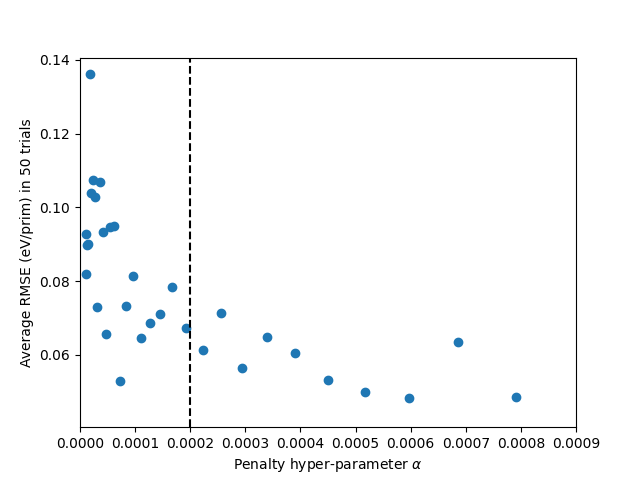
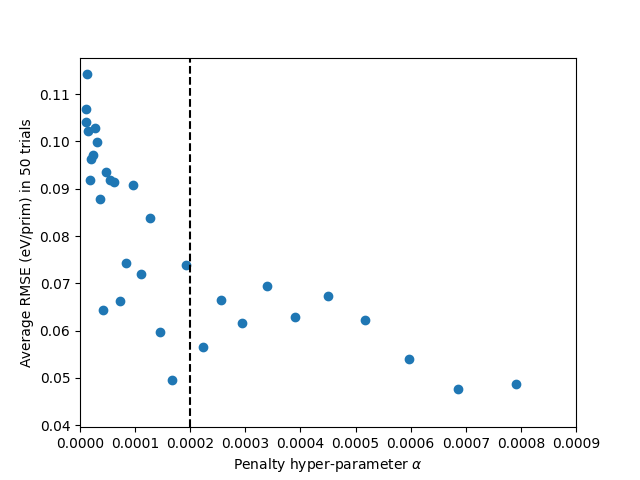
added more linear models (blr, ard)

diff --git a/CE-smol/cluster-exp-blr.py b/CE-smol/cluster-exp-blr.py
@@ -16,7 +16,7 @@ from sklearn.metrics import mean_squared_error as mse
 import numpy as np
 import copy
 import warnings
-from sklearn.linear_model import Lasso
+from sklearn.linear_model import BayesianRidge
 from sklearn.exceptions import ConvergenceWarning
 
 
@@ -70,11 +70,12 @@ print ('Our feature matrix has the following dimensions:',
 
 # 4.1 Fit a Cluster Expansion:
 
-TRIALS = 10
+TRIALS = 100
 TEST_SIZE = 0.20
 PROPERTY = 'energy'
 
 # set up Weights And Biases
+
 # (silence wandb terminal outputs)
 import os
 os.environ["WANDB_SILENT"] = "true"
@@ -86,75 +87,46 @@ wandb.init(project='cpsc440 ML for cluster expansion', entity="cpsc440-ml-cluste
     "species" : species,
     "cluster_info" : cutoffs,
     "property" : PROPERTY,
-    "model" : "Lasso"})
+    "model" : "BLR"})
 
 with warnings.catch_warnings():
     warnings.filterwarnings("ignore", category=ConvergenceWarning)
 
-    all_rmse = []
-    for alpha in np.logspace(-5, -3):
-        rmse_list = []
-        for trial in range(TRIALS):
-            X_train, X_test, y_train, y_test = train_test_split(
-                wrangler.feature_matrix, wrangler.get_property_vector(key=PROPERTY),
-                test_size=TEST_SIZE
-            )
-            # We are using linear regression with LASSO = l1 regularization 
-            model = Lasso(alpha=alpha, fit_intercept=True)
-            # remove the constant correlation since we are fitting
-            # the intercept
-            model.fit(X_train[:, 1:], y_train)
-            wvec = np.concatenate((np.array([model.intercept_]),
-                                   model.coef_),
-                                  axis=0)
-            y_predict = np.dot(X_test, wvec)
-            rmse = np.sqrt(mse(y_test, y_predict))
-            rmse_list.append(rmse)
+    rmse_list = []
+    for trial in range(TRIALS):
+        X_train, X_test, y_train, y_test = train_test_split(
+            wrangler.feature_matrix, wrangler.get_property_vector(key=PROPERTY),
+            test_size=TEST_SIZE
+        )
+        # We are using bayesian linear regression (note: not a good choice bc Gaussian assumption ~ L2 reg. instead of L1)
+        model = BayesianRidge(fit_intercept=True)
+        # remove the constant correlation since we are fitting the intercept
+        model.fit(X_train[:, 1:], y_train)
+        wvec = np.concatenate((np.array([model.intercept_]),
+                                model.coef_),
+                                axis=0)
+        y_predict = np.dot(X_test, wvec)
+        rmse = np.sqrt(mse(y_test, y_predict))
+        rmse_list.append(rmse)
+        wandb.log({"mean test rmse": rmse, "alpha": model.lambda_}) # note: model.lambda is the regularization parameter. ignore the change of names
 
-        mean = np.mean(rmse_list)
-        all_rmse.append(mean)
+    mean_rmse = np.mean(rmse_list)
 
-        # log to wandb
-        wandb.log({"mean test rmse": np.mean(rmse_list), "alpha": alpha})
-        # update best mean, alpha
-        if (mean <= np.min(all_rmse)):
-            wandb.config.update({"lowest_rmse": mean, "best alpha": alpha}, allow_val_change = True)
+    # log to wandb
+    wandb.config.update({"lowest_rmse": mean_rmse, "best alpha": model.lambda_}, allow_val_change = True)
 
 wandb.finish()
 
-
 # Load plotting tools to examine how the fitting is going
-# (note: see wandb for more plots)
-
+# '''
 import matplotlib as mpl
 import matplotlib.pyplot as plt
-
-plt.scatter(np.logspace(-5,-2), all_rmse)
-plt.xlim([0, 0.0009])
-plt.axvline(x = 0.0002, ls = '--', color = 'black')
-plt.xlabel(r'Penalty hyper-parameter $\alpha$')
-plt.ylabel('Average RMSE (eV/prim) in 50 trials')
-plt.savefig(".././CPSC440-Project/figs/avg_rmse")
-
-LAMBDA = 0.0002
-X_train, X_test, y_train, y_test = train_test_split(
-    wrangler.feature_matrix, wrangler.get_property_vector(key=PROPERTY),
-    test_size=TEST_SIZE
-)
-
-model = Lasso(alpha=LAMBDA, fit_intercept=True)
-model.fit(X_train[:, 1:], y_train)
 
 wvec = np.concatenate(
     (np.array([model.intercept_]), model.coef_),
     axis=0
 )
 
-print(model.coef_)
-print(model.intercept_)
-print(wvec)
-
-# '''
 y_predict = np.dot(X_test, wvec)
 y_train_predict = np.dot(X_train, wvec)
 print(f'Out-of-sample RMSE is: {np.sqrt(mse(y_test, y_predict))} eV/prim')
@@ -168,8 +140,6 @@ plt.stem(range(len(wvec) - first_pair), wvec[first_pair:],
          linefmt='-', markerfmt=' ')#, basefmt=' ')
 plt.xlabel('Coefficient index (i in $w_i$)')
 plt.ylabel('Magnitude |$w_i$| eV/prim')
-plt.savefig(".././CPSC440-Project/figs/selected_energies")
-# plt.show()
 
 
 # 4.2 Generate the Cluster Expansion Object: 
@@ -190,4 +160,5 @@ print(f"Structure with composition {structure.composition} has predicted energy 
 
 
 # We have built the cluster expansion: Now let’s run canonical MC on Mn0.6Ni0.4As 
+
 # '''

diff --git a/CE-smol/cluster-exp-ard.py b/CE-smol/cluster-exp-ard.py
@@ -16,7 +16,7 @@ from sklearn.metrics import mean_squared_error as mse
 import numpy as np
 import copy
 import warnings
-from sklearn.linear_model import Lasso
+from sklearn.linear_model import ARDRegression
 from sklearn.exceptions import ConvergenceWarning
 
 
@@ -70,11 +70,12 @@ print ('Our feature matrix has the following dimensions:',
 
 # 4.1 Fit a Cluster Expansion:
 
-TRIALS = 10
+TRIALS = 20
 TEST_SIZE = 0.20
 PROPERTY = 'energy'
 
 # set up Weights And Biases
+
 # (silence wandb terminal outputs)
 import os
 os.environ["WANDB_SILENT"] = "true"
@@ -86,75 +87,58 @@ wandb.init(project='cpsc440 ML for cluster expansion', entity="cpsc440-ml-cluste
     "species" : species,
     "cluster_info" : cutoffs,
     "property" : PROPERTY,
-    "model" : "Lasso"})
+    "model" : "ARD"})
 
 with warnings.catch_warnings():
     warnings.filterwarnings("ignore", category=ConvergenceWarning)
 
-    all_rmse = []
-    for alpha in np.logspace(-5, -3):
+
+# hyperparameters of gamma prior
+alpha_1s = np.logspace(-6, -4)
+alpha_2s = np.logspace(-5, -3)
+
+# print(alpha_2s)
+
+all_rmse = []
+for alpha_1 in alpha_1s:
+    for alpha_2 in alpha_2s:
+
         rmse_list = []
         for trial in range(TRIALS):
             X_train, X_test, y_train, y_test = train_test_split(
                 wrangler.feature_matrix, wrangler.get_property_vector(key=PROPERTY),
                 test_size=TEST_SIZE
             )
-            # We are using linear regression with LASSO = l1 regularization 
-            model = Lasso(alpha=alpha, fit_intercept=True)
-            # remove the constant correlation since we are fitting
-            # the intercept
+            # We are using Automatic relevance determination model, training the HYPERparameters
+            model = ARDRegression(alpha_1 = alpha_1, alpha_2 = alpha_2, fit_intercept=True)
             model.fit(X_train[:, 1:], y_train)
             wvec = np.concatenate((np.array([model.intercept_]),
-                                   model.coef_),
-                                  axis=0)
+                                    model.coef_),
+                                    axis=0)
             y_predict = np.dot(X_test, wvec)
+
             rmse = np.sqrt(mse(y_test, y_predict))
             rmse_list.append(rmse)
+           
+        mean_rmse = np.mean(rmse_list)
+        all_rmse.append(mean_rmse)
 
-        mean = np.mean(rmse_list)
-        all_rmse.append(mean)
-
-        # log to wandb
-        wandb.log({"mean test rmse": np.mean(rmse_list), "alpha": alpha})
-        # update best mean, alpha
-        if (mean <= np.min(all_rmse)):
-            wandb.config.update({"lowest_rmse": mean, "best alpha": alpha}, allow_val_change = True)
+        wandb.log({"mean test rmse": mean_rmse})
+        if (mean_rmse <= np.min(all_rmse)):
+            wandb.config.update({"lowest_rmse": mean_rmse, "best alpha_1": alpha_1, "best alpha_2": alpha_2}, allow_val_change = True)
 
 wandb.finish()
 
-
 # Load plotting tools to examine how the fitting is going
-# (note: see wandb for more plots)
-
+# '''
 import matplotlib as mpl
 import matplotlib.pyplot as plt
 
-plt.scatter(np.logspace(-5,-2), all_rmse)
-plt.xlim([0, 0.0009])
-plt.axvline(x = 0.0002, ls = '--', color = 'black')
-plt.xlabel(r'Penalty hyper-parameter $\alpha$')
-plt.ylabel('Average RMSE (eV/prim) in 50 trials')
-plt.savefig(".././CPSC440-Project/figs/avg_rmse")
+# best hyperparameters taken from wandb
+model = ARDRegression(alpha_1 = 0.0001, alpha_2 = 0.0003, fit_intercept=True)
+model.fit(X_train[:, 1:], y_train),
+wvec = np.concatenate((np.array([model.intercept_]), model.coef_), axis=0)
 
-LAMBDA = 0.0002
-X_train, X_test, y_train, y_test = train_test_split(
-    wrangler.feature_matrix, wrangler.get_property_vector(key=PROPERTY),
-    test_size=TEST_SIZE
-)
-
-model = Lasso(alpha=LAMBDA, fit_intercept=True)
-model.fit(X_train[:, 1:], y_train)
-
-wvec = np.concatenate(
-    (np.array([model.intercept_]), model.coef_),
-    axis=0
-)
-
-print(model.coef_)
-print(model.intercept_)
-print(wvec)
-
-# '''
 y_predict = np.dot(X_test, wvec)
 y_train_predict = np.dot(X_train, wvec)
 print(f'Out-of-sample RMSE is: {np.sqrt(mse(y_test, y_predict))} eV/prim')
@@ -168,8 +152,6 @@ plt.stem(range(len(wvec) - first_pair), wvec[first_pair:],
          linefmt='-', markerfmt=' ')#, basefmt=' ')
 plt.xlabel('Coefficient index (i in $w_i$)')
 plt.ylabel('Magnitude |$w_i$| eV/prim')
-plt.savefig(".././CPSC440-Project/figs/selected_energies")
-# plt.show()
 
 
 # 4.2 Generate the Cluster Expansion Object: 
@@ -190,4 +172,5 @@ print(f"Structure with composition {structure.composition} has predicted energy 
 
 
 # We have built the cluster expansion: Now let’s run canonical MC on Mn0.6Ni0.4As 
+
 # '''
